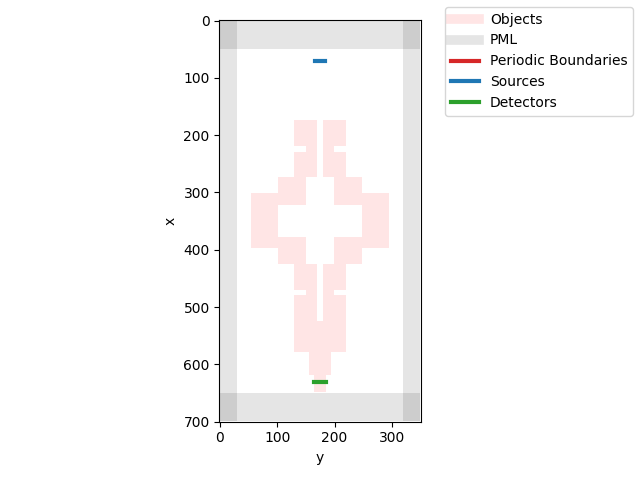
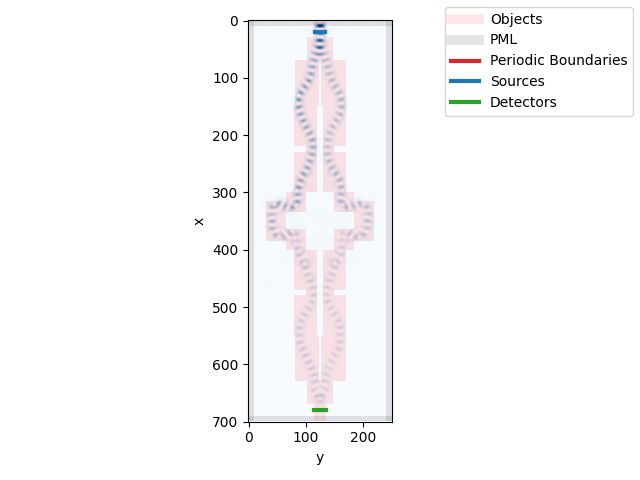
更新了mzi.py及其示例

Changed region(s): [[0.2812, 0.0312, 0.6562, 0.9375], [0.25, 0.4375, 0.2812, 0.4688]]

diff --git a/examples/mzi_ex.py b/examples/mzi_ex.py
@@ -5,26 +5,27 @@ if __name__ == "__main__":
     background_index = 1.0
 
     mzi = Mzi(gap=50,
-              xlength_dc=100,
+              xlength_dc=150,
               zlength=1,
               x=350,
-              y=175,
+              y=125,
               z=0,
               width=20,
               refractive_index=3.47,
               name='mzi',
-              couplelength=150,
+              couplelength=100,
               addlength_arm1=0,
               addlength_arm2=0,
               couplelength_dc=10,
               gap_dc=10,
               background_index=background_index)
 
-    ysplitter1 = Ysplitter(xlength=125,
+    # 设置y分支波导时应给s波导之间留有一定间距，否则光场可能在连接处反复振荡导致数值过大而报错
+    ysplitter1 = Ysplitter(xlength=150,
                            ylength=90,
                            zlength=1,
-                           x=99,
-                           y=175,
+                           x=50,
+                           y=125,
                            z=0,
                            direction=1,
                            width=20,
@@ -32,15 +33,15 @@ if __name__ == "__main__":
                            refractive_index=3.47,
                            xlength_waveguide=30,
                            xlength_taper=40,
-                           ylength_taper=40,
+                           ylength_taper=44,
                            width_sbend=20,
                            background_index=background_index)
 
-    ysplitter2 = Ysplitter(xlength=125,
+    ysplitter2 = Ysplitter(xlength=150,
                            ylength=90,
                            zlength=1,
-                           x=599,
-                           y=175,
+                           x=650,
+                           y=125,
                            z=0,
                            direction=-1,
                            width=20,
@@ -48,17 +49,17 @@ if __name__ == "__main__":
                            refractive_index=3.47,
                            xlength_waveguide=30,
                            xlength_taper=40,
-                           ylength_taper=40,
+                           ylength_taper=44,
                            width_sbend=20,
                            background_index=background_index)
 
-    grid = Grid(grid_xlength=700, grid_ylength=350, grid_zlength=1, grid_spacing=20e-9, total_time=4000,
-                pml_width_x=50,
-                pml_width_y=30, pml_width_z=0,
+    grid = Grid(grid_xlength=700, grid_ylength=250, grid_zlength=1, grid_spacing=20e-9, total_time=4000,
+                pml_width_x=10,
+                pml_width_y=10, pml_width_z=0,
                 foldername="test_mzi", permittivity=background_index ** 2)
 
     grid.add_object(mzi)
-    # grid.add_object(ysplitter1)
+    grid.add_object(ysplitter1)
     grid.add_object(ysplitter2)
 
     # 设置光源
@@ -66,8 +67,8 @@ if __name__ == "__main__":
                     period=1550e-9/constants.c,
                     name="source",
                     pulse_type="none",
-                    x=70,
-                    y=175,
+                    x=20,
+                    y=125,
                     z=0,
                     xlength=1,
                     ylength=18,
@@ -77,8 +78,8 @@ if __name__ == "__main__":
     # 设置监视器
     grid.set_detector(detector_type="linedetector",
                       name="detector",
-                      x=630,
-                      y=175,
+                      x=680,
+                      y=125,
                       z=0,
                       xlength=1,
                       ylength=22,
@@ -99,7 +100,7 @@ if __name__ == "__main__":
     # 保存仿真结果
     grid.save_simulation()
 
-    # 绘制任意截面场图
+    # z=0截面场图
     grid.save_fig(axis="z",
                   axis_number=0)
 

diff --git a/photfdtd/ysplitter.py b/photfdtd/ysplitter.py
@@ -174,7 +174,7 @@ class Ysplitter(Waveguide):
                 ylength=self.ylength_sbend,
                 zlength=self.zlength,
                 x=self.x + int(self.xlength_taper / 2 + self.xlength_sbend / 2),
-                y=self.y - int(self.ylength_taper / 2 + self.ylength_sbend / 2) + self.width_sbend - 1,# 这里-1是为了防止波导区域重叠抛出错误
+                y=self.y - int(self.ylength_taper / 2 + self.ylength_sbend / 2) + self.width_sbend,
                 z=self.z,
                 direction=-self.direction,
                 width=self.width,
@@ -212,7 +212,7 @@ class Ysplitter(Waveguide):
                 xlength=self.xlength_sbend,
                 ylength=self.ylength_sbend,
                 zlength=self.zlength,
-                x=self.x - int(self.xlength_taper / 2) - int(self.xlength_sbend / 2) - 1, # 这里-1是为了防止波导区域重叠抛出错误
+                x=self.x - int(self.xlength_taper / 2) - int(self.xlength_sbend / 2),
                 y=self.y + int(self.ylength_taper / 2 + self.ylength_sbend / 2 - self.width_sbend),
                 z=self.z,
                 direction=self.direction,
@@ -225,8 +225,8 @@ class Ysplitter(Waveguide):
                 xlength=self.xlength_sbend,
                 ylength=self.ylength_sbend,
                 zlength=self.zlength,
-                x=self.x - int(self.xlength_taper / 2) - int(self.xlength_sbend / 2) - 1,
-                y=self.y - int(self.ylength_taper / 2 + self.ylength_sbend / 2 - self.width_sbend) - 1,
+                x=self.x - int(self.xlength_taper / 2) - int(self.xlength_sbend / 2),
+                y=self.y - int(self.ylength_taper / 2 + self.ylength_sbend / 2 - self.width_sbend),
                 z=self.z,
                 direction=-self.direction,
                 width=self.width,

diff --git a/photfdtd/mmi.py b/photfdtd/mmi.py
@@ -12,7 +12,7 @@ class Mmi(Waveguide):
     x,y,z: 多模波导位置坐标（通常是矩形区域最靠近原点的点）
     n: 输入波导数
     m：输出波导数
-    width_port：端口宽度(端口是一个梯形，是一个Ysplitter.trapezoid类对象)
+    width_port：端口宽度(端口是一个梯形，是一个Ysplitter.taper类对象)
     width_wg:单模波导宽度
     ln：输入波导长度（x方向长度）
     lm：输出波导长度（x方向长度）
@@ -42,7 +42,7 @@ class Mmi(Waveguide):
             background_index: float = 1.0
     ) -> None:
         # TODO: 如果没有给定We，则算出We
-        #　TODO: 光路沿ｙ方向？
+        # TODO: 光路沿ｙ方向？
         self.n = n
         self.m = m
         self.width_port = width_port

diff --git a/photfdtd/mzi.py b/photfdtd/mzi.py
@@ -47,7 +47,7 @@ class Mzi:
         dc1 = DirectionalCoupler(xlength=self.xlength_dc,
                                  ylength=self.ylength_dc,
                                  zlength=self.zlength,
-                                 x=self.x - int(self.couplelength / 2 + self.xlength_dc / 2) - 1, # -1是为了防止波导区域重叠报错
+                                 x=self.x - int(self.couplelength / 2 + self.xlength_dc / 2), # -1是为了防止波导区域重叠报错
                                  y=self.y,
                                  z=self.z,
                                  direction=1,

diff --git a/photfdtd/grid.py b/photfdtd/grid.py
@@ -121,6 +121,10 @@ class Grid:
         z = z - zlength // 2
         if source_type == "pointsource":
             # 创建一个点光源
+            x = x + xlength // 2
+            y = y + ylength // 2
+            z = z + zlength // 2
+
             self._grid[x, y, z] = fdtd.PointSource(
                 period=period,
                 amplitude=amplitude,
